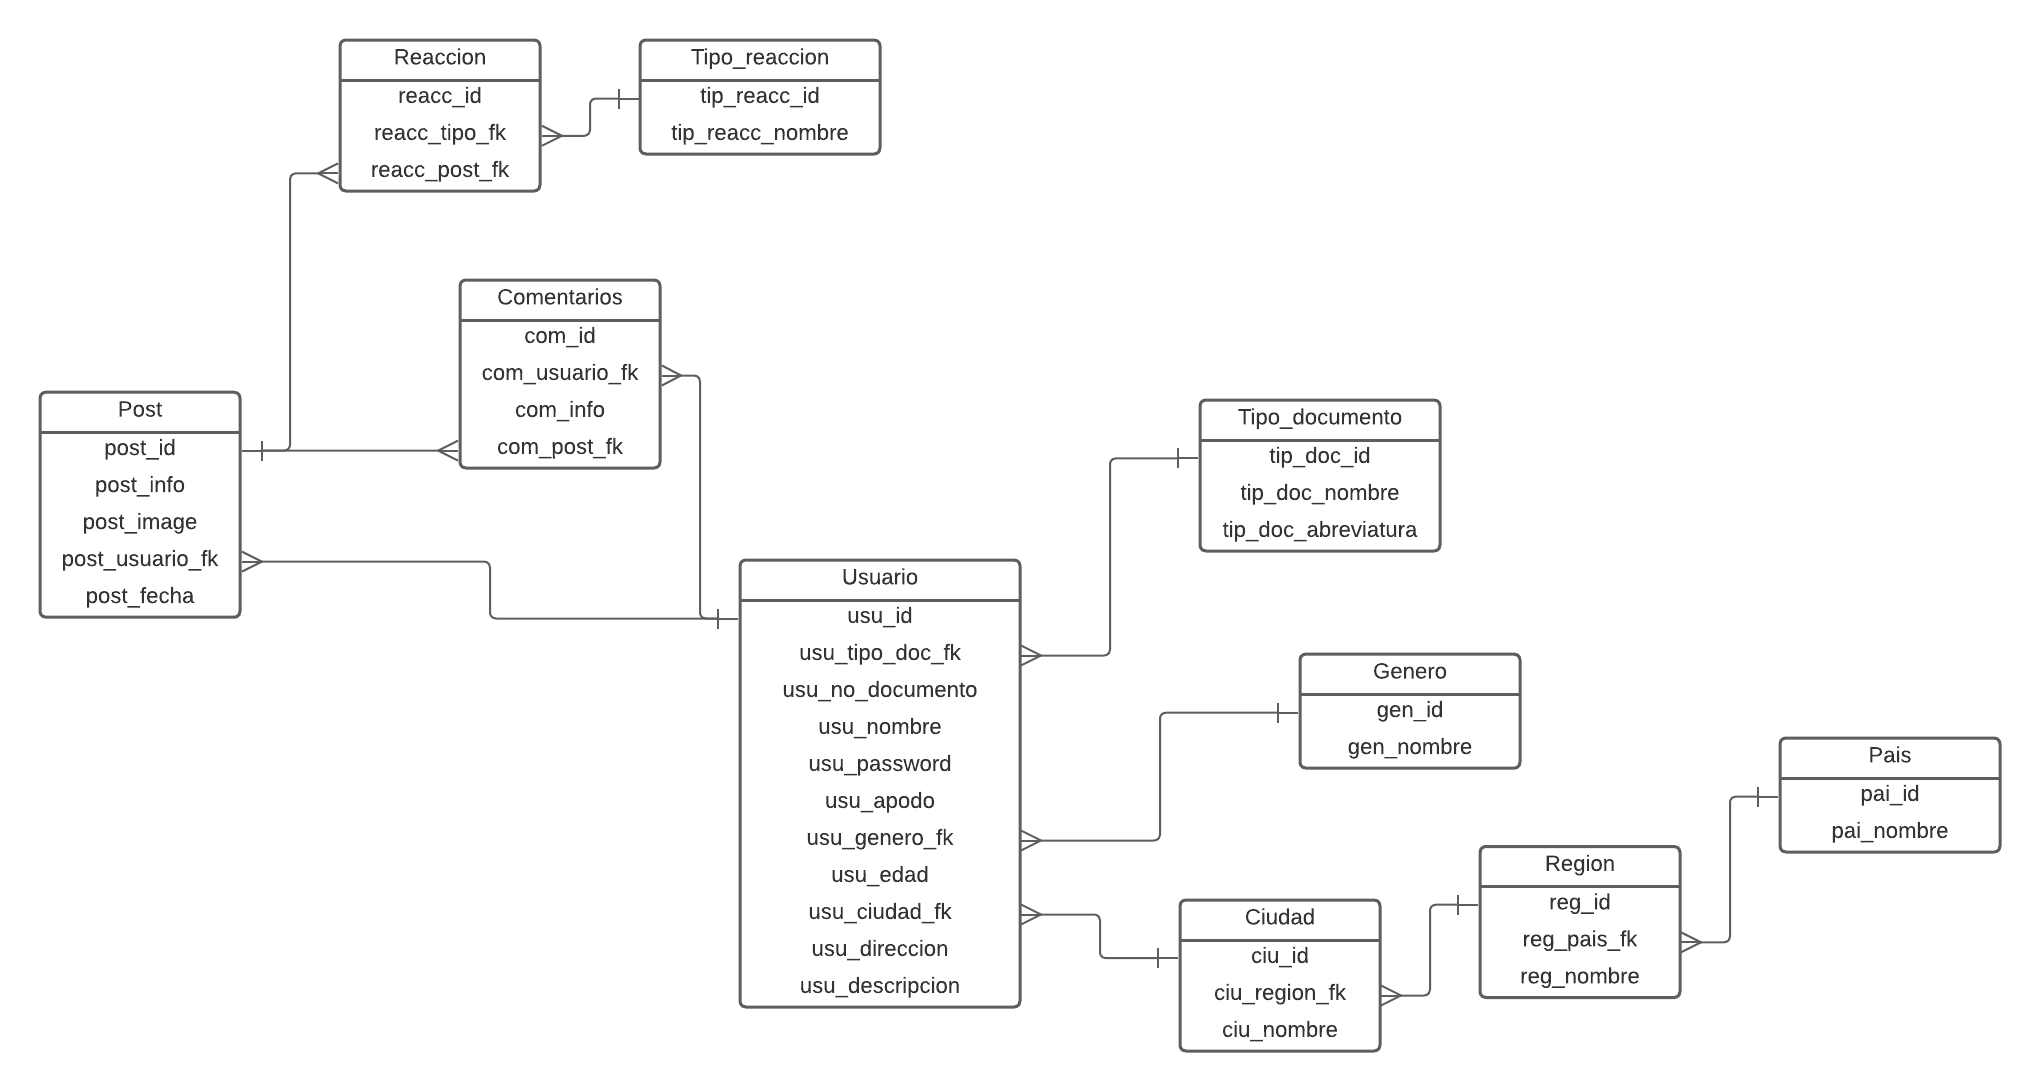
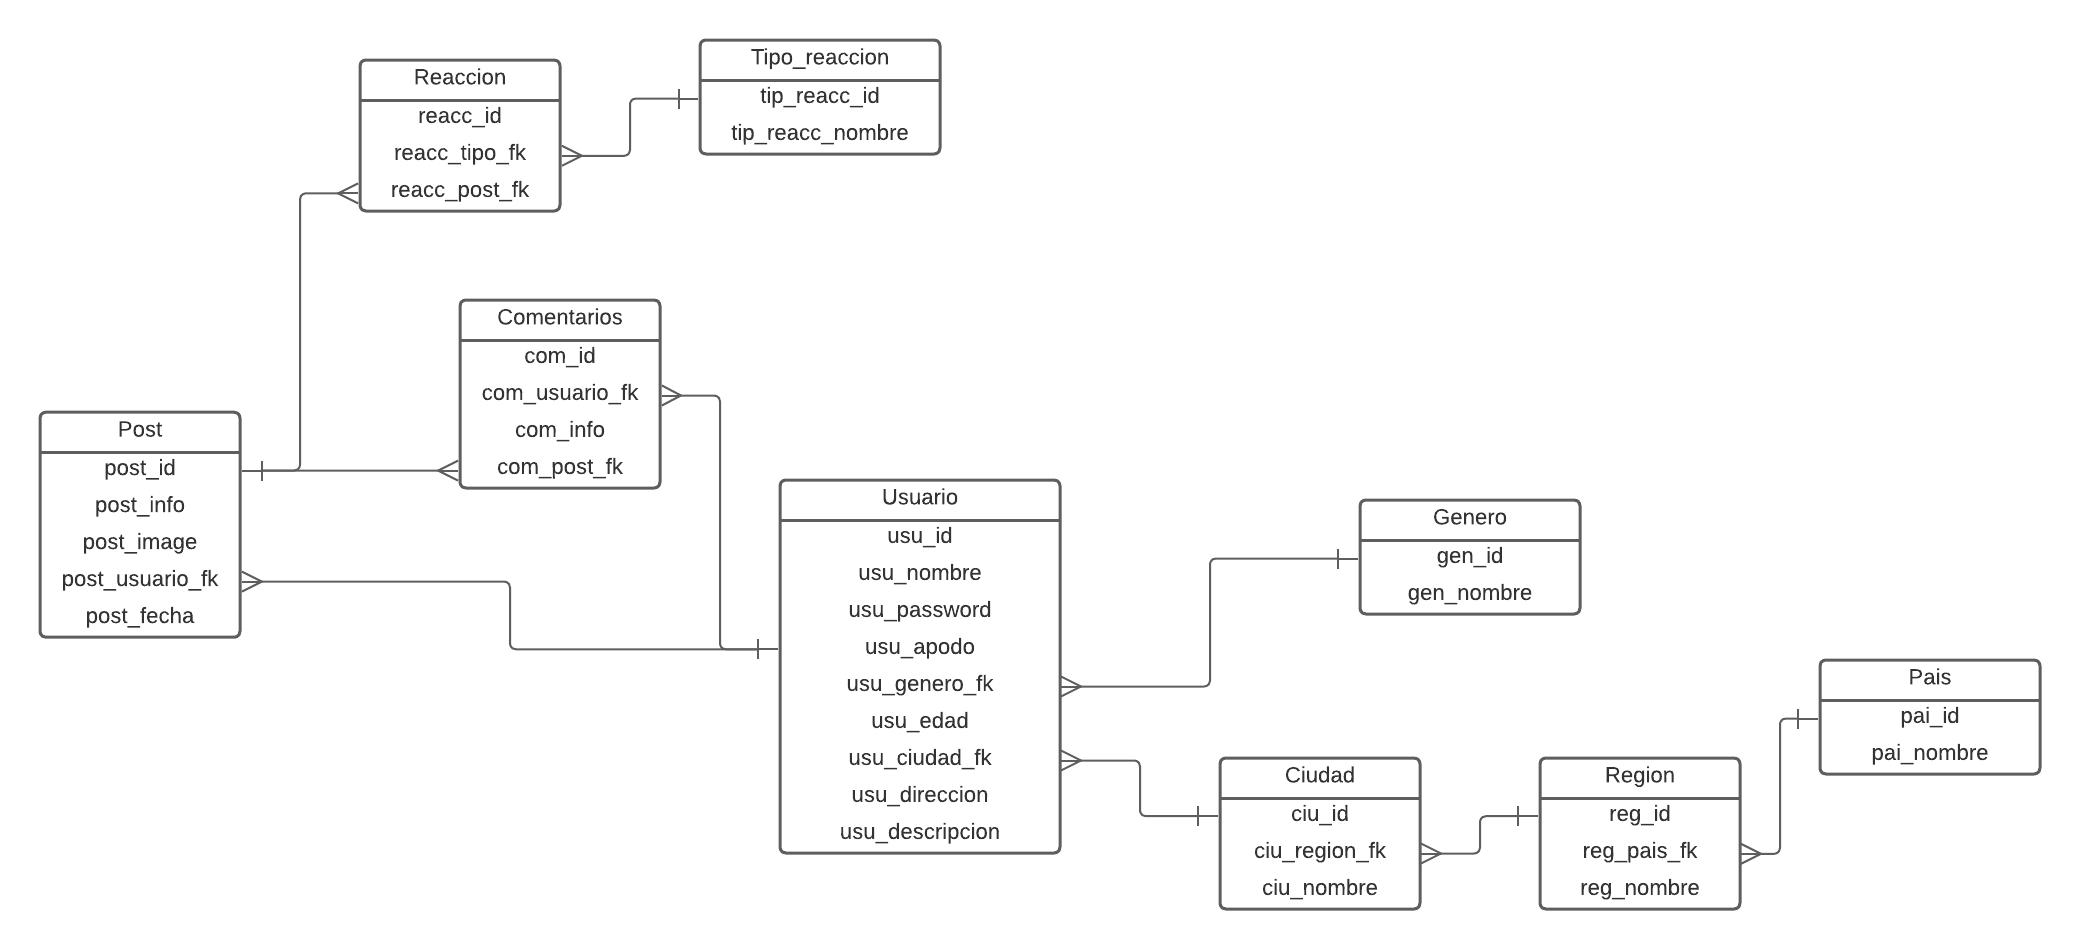
docs(DB): :memo: Modificacion README, DB
se modifico el readme y la base de datos

by:Carlos Villafrades

diff --git a/README.md b/README.md
@@ -16,11 +16,7 @@ Se tiene pensado crear una base de datos con la siguiente informacion:
 
 ### Tablas
 
-**- Login:**  En la tabla Login tendremos el userName, email y la password que nustros usuarios utilizaran para ingresar a la pagina .
-
-**- Usuarios:**  en la tabala usuarios guardaremos la informacion principal de cada uno de los usuarios, como lo son: tipo_documento, nro_documento, foto, primer_nombre, segundo_nombre, primer_apellido, segundo_apellido, apodo, edad, ciudad_recidencia, direccion, descripcion_personal.
-
-**- Tipo_documento:** En la tabla tipo_documento tendremos los tipos de documento que los usuarios pueden elegir;
+**- Usuarios:**  en la tabala usuarios guardaremos la informacion principal de cada uno de los usuarios, como lo son: id_numero_telefono, password, foto, nombre completo, apodo, edad, ciudad_recidencia, direccion, descripcion_personal.
 
 **- Pais:** en la tabla pais tendremos los paices que los usuarios pueden elegir como nacionalidad.
 
